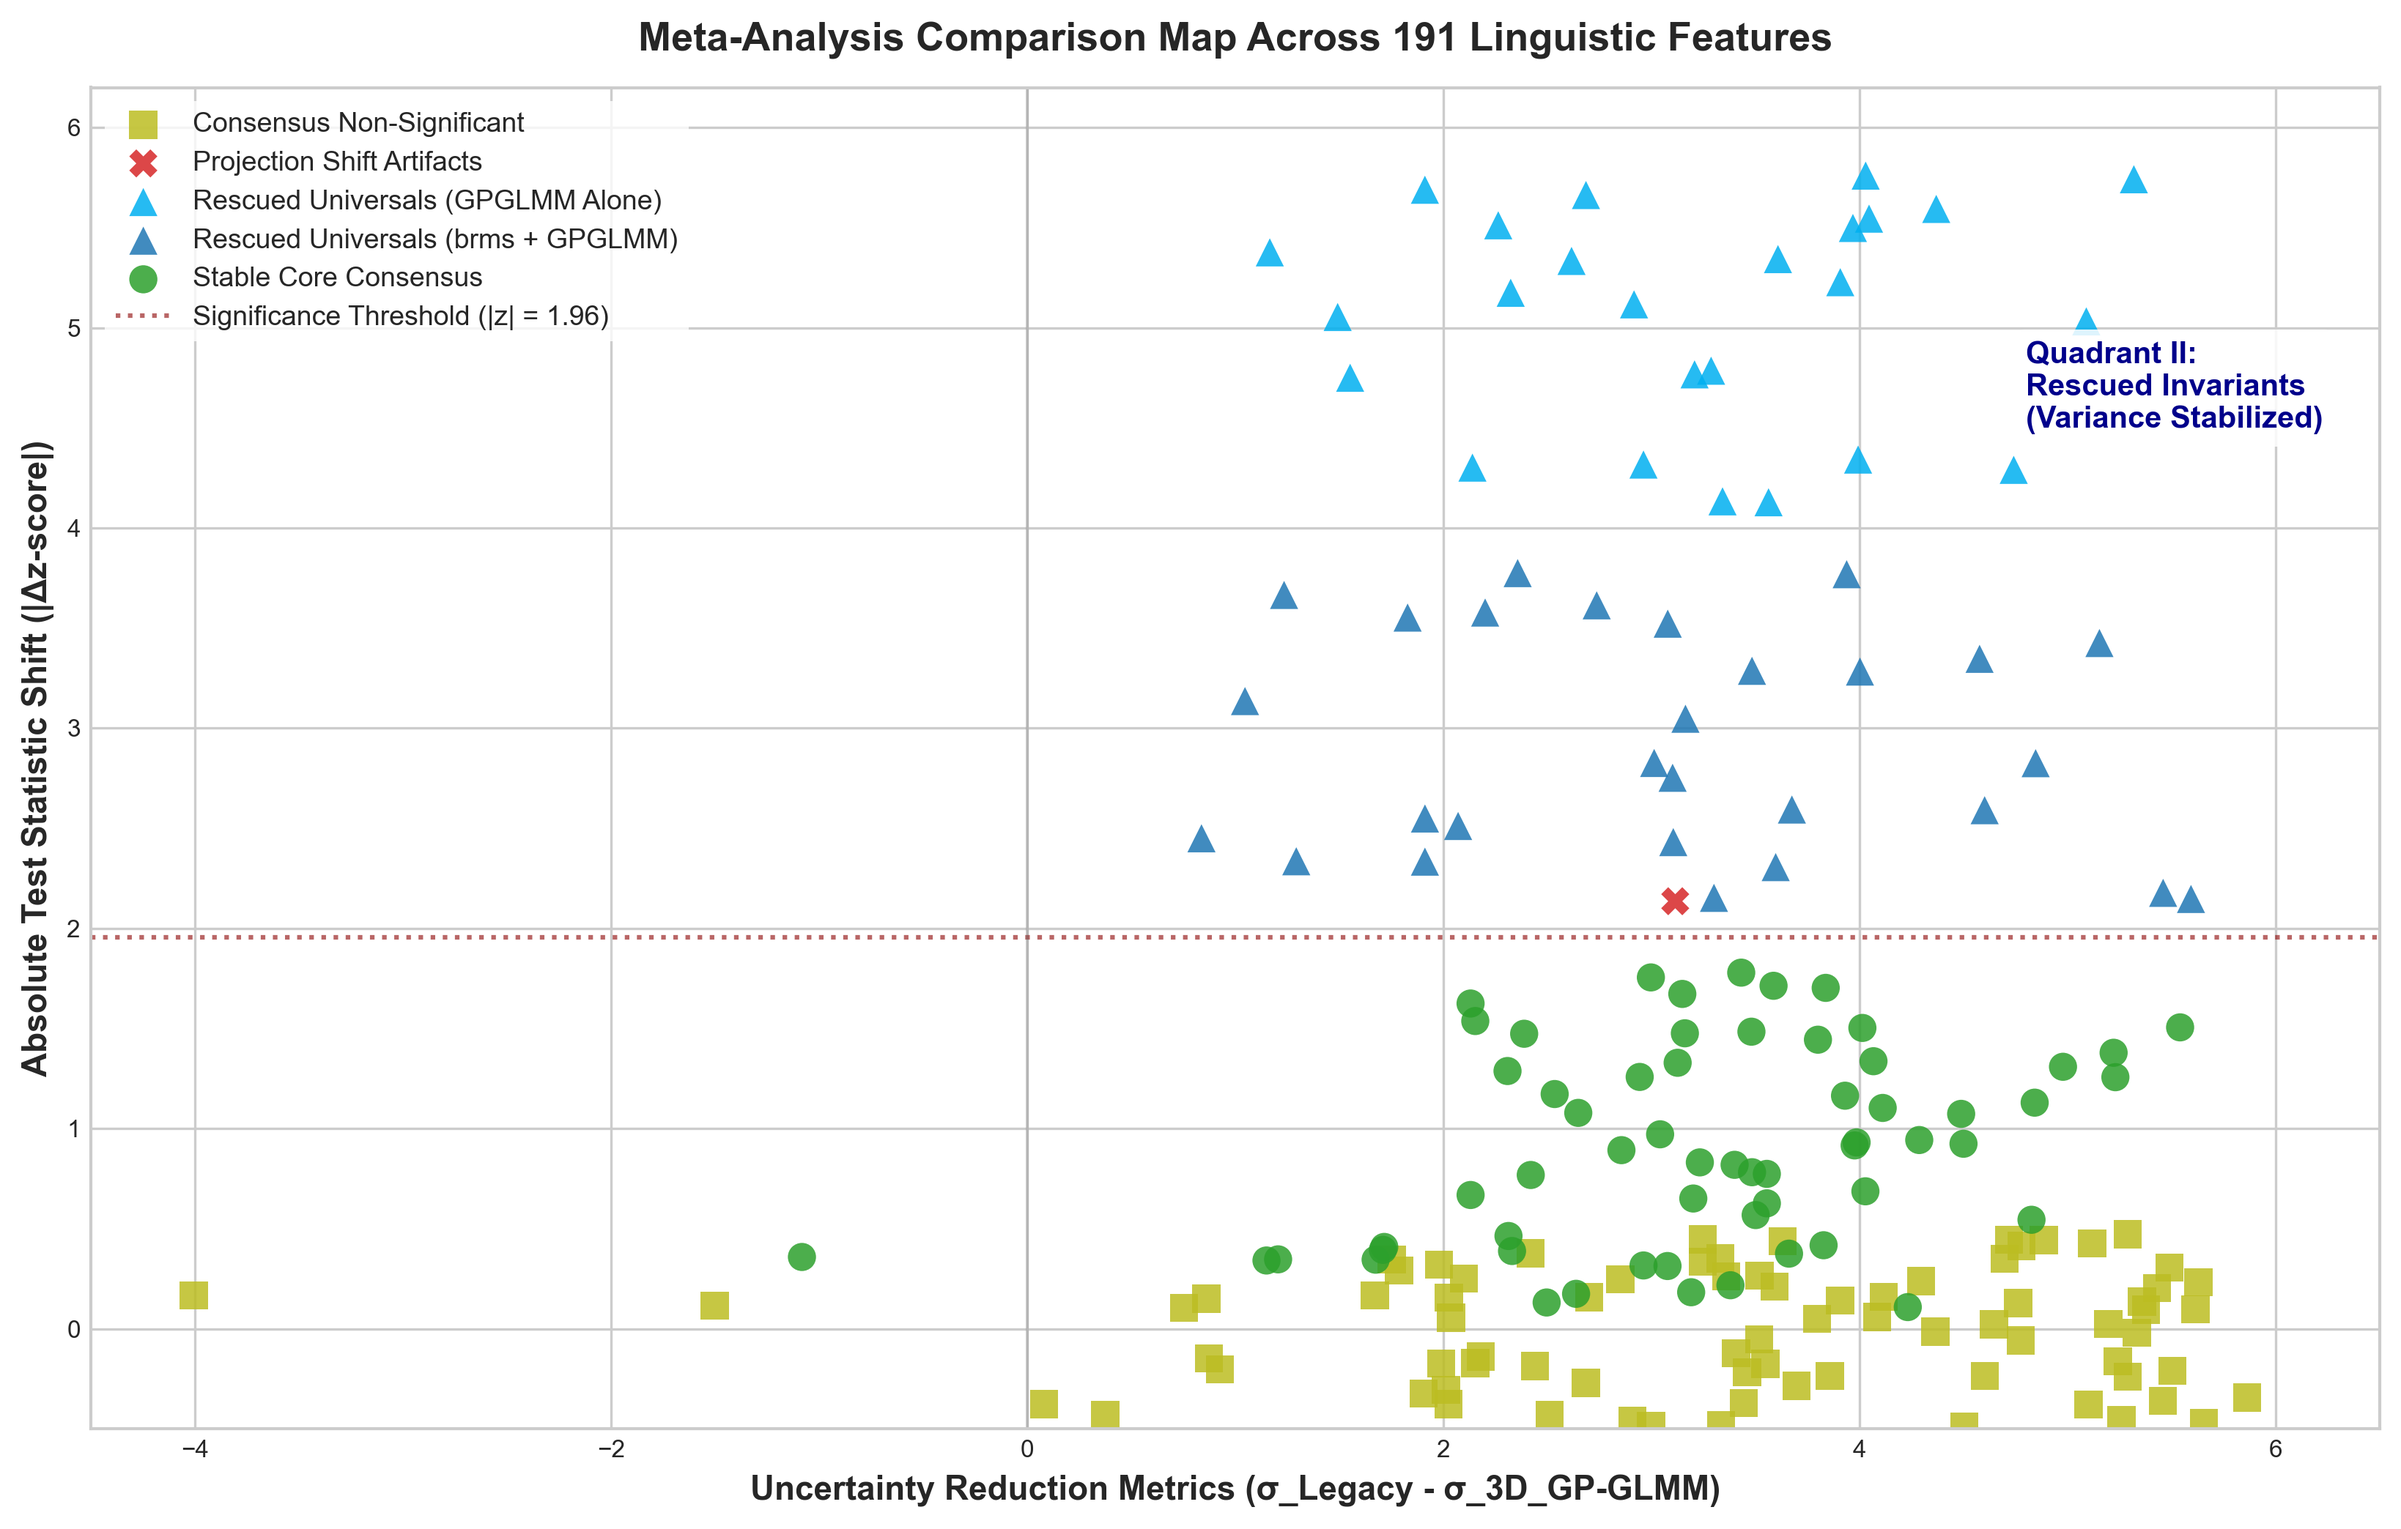
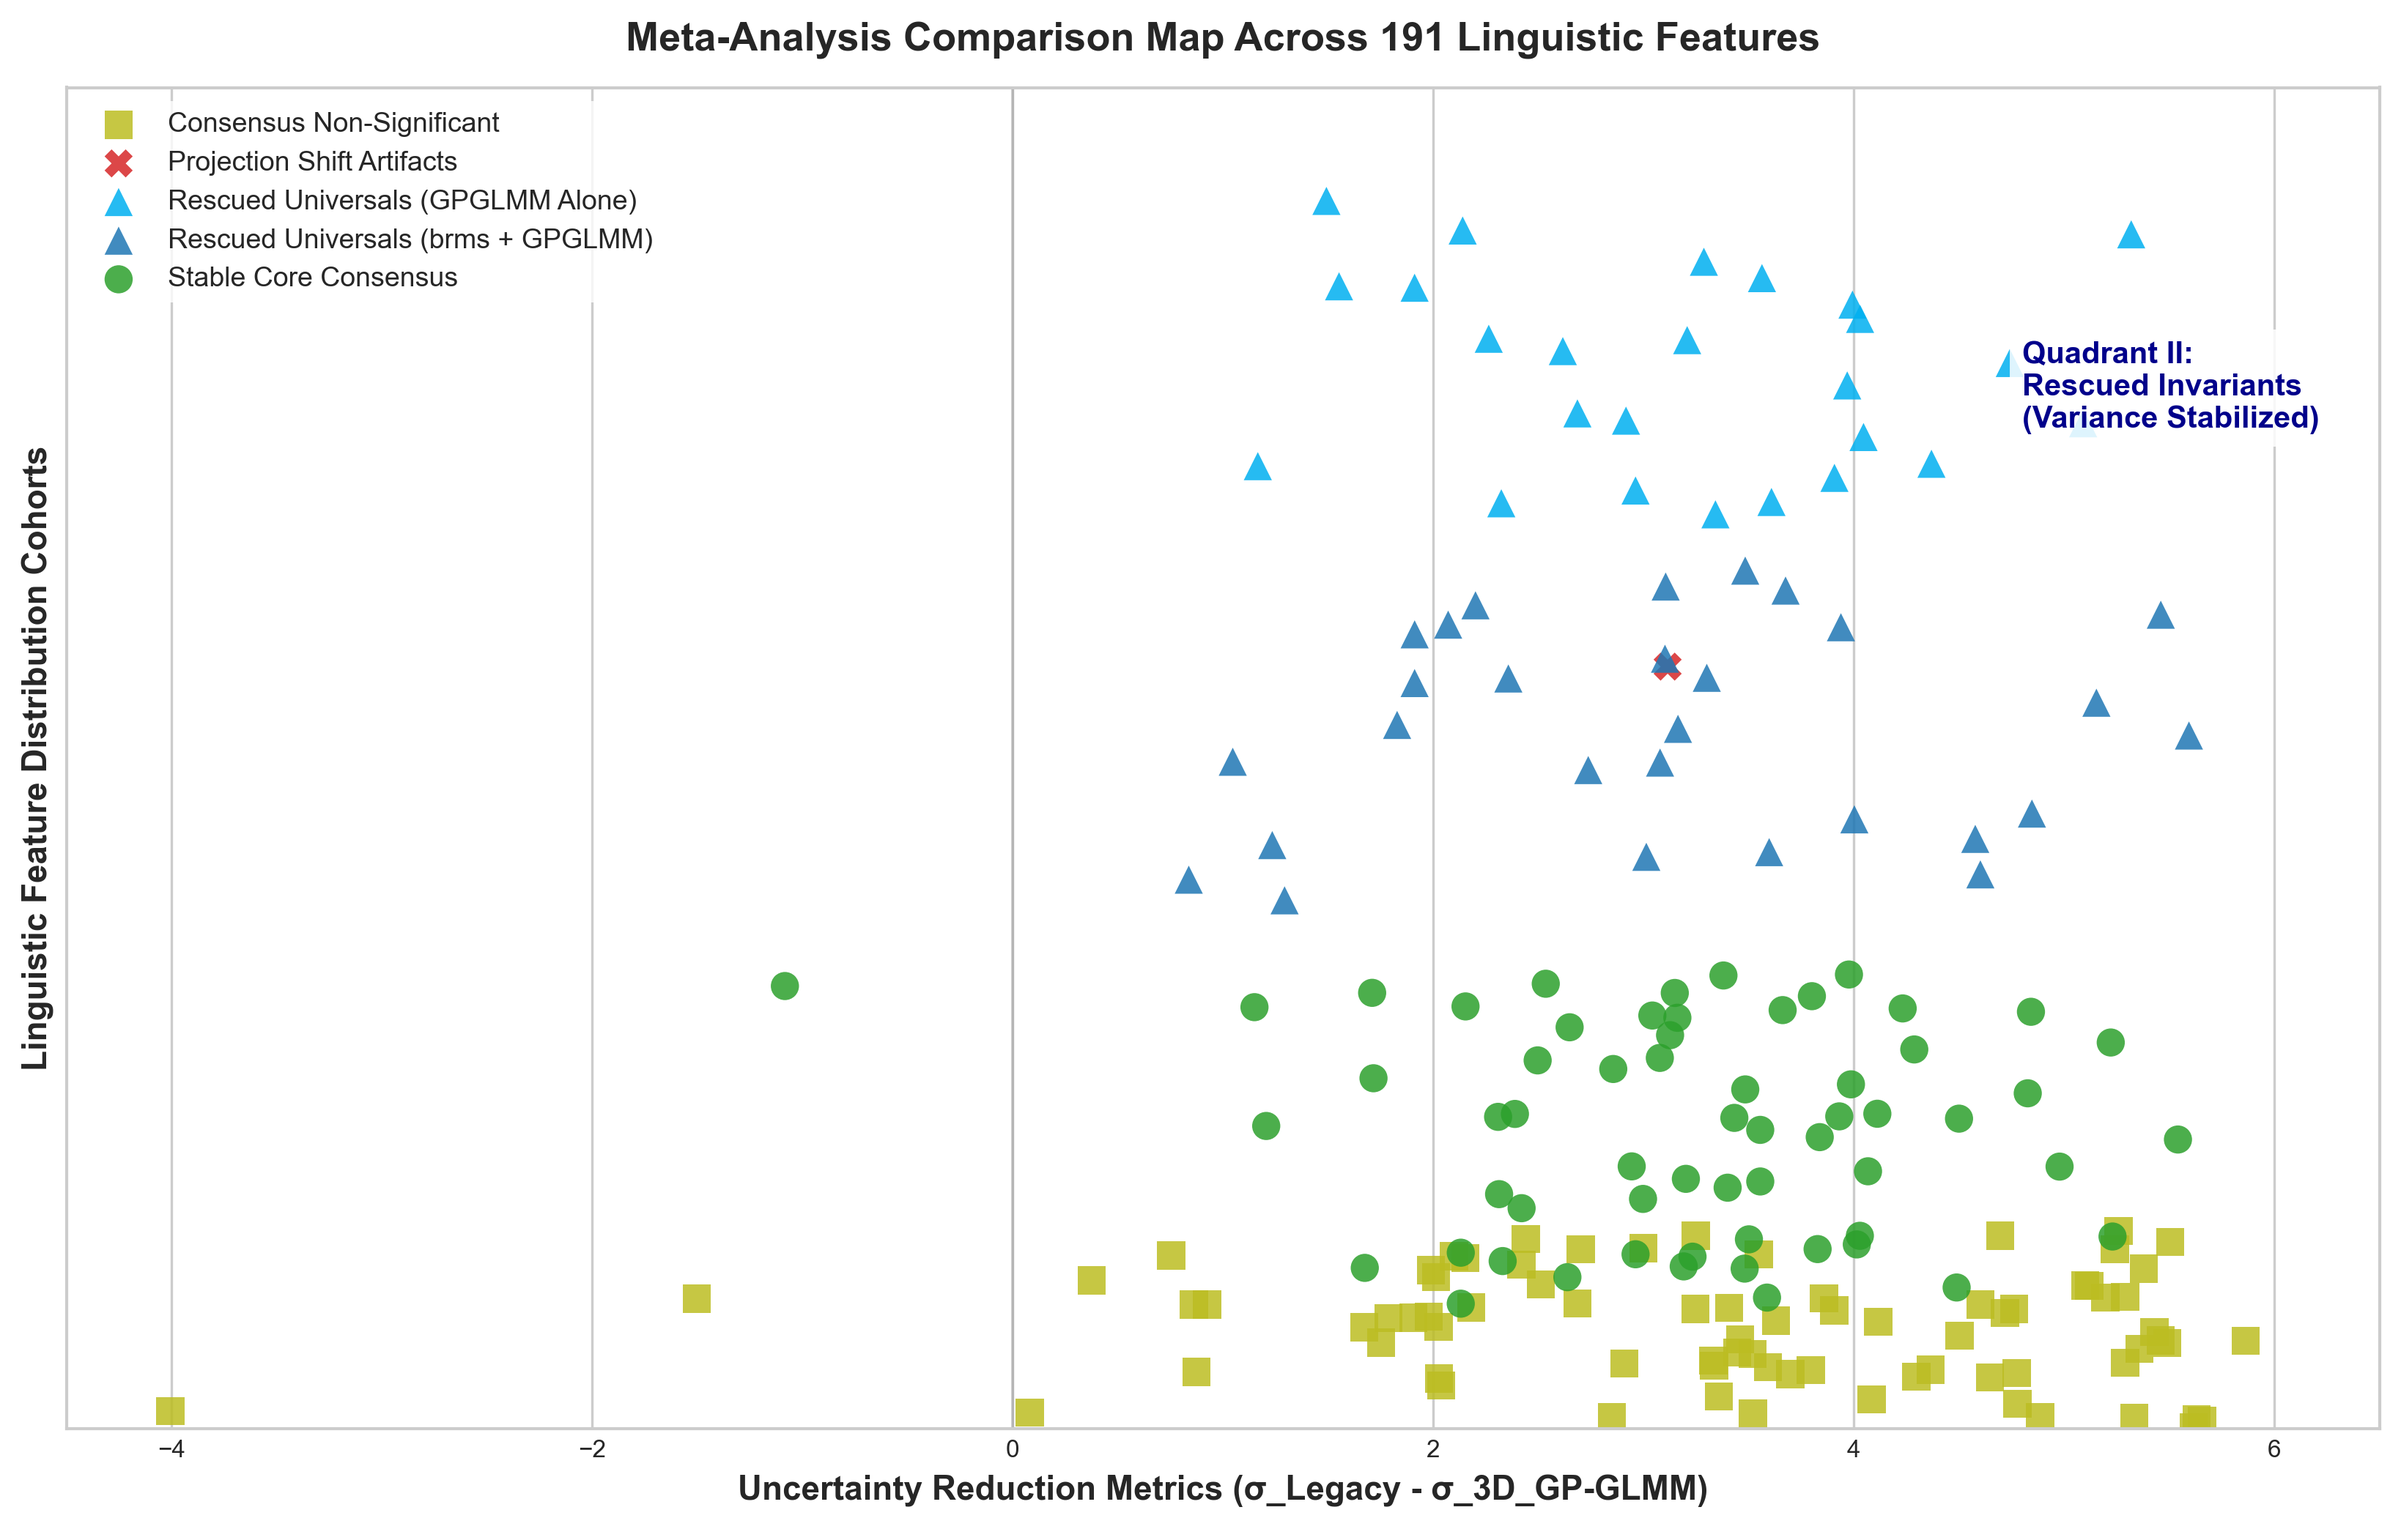
change scatter plot display style

diff --git a/utils/plotting_master.py b/utils/plotting_master.py
@@ -513,12 +513,13 @@ def generate_global_summary_scatter_plot(master_summary_path=None):
                    c=first_row["Color"], marker=first_row["Marker"], s=85, alpha=0.85,
                    edgecolors="none", label=group_name)
 
-    ax.axhline(y=1.956, color="darkred", linestyle=":", alpha=0.6, linewidth=1.5, label="Significance Threshold (|z| = 1.96)")
+    # ax.axhline(y=1.956, color="darkred", linestyle=":", alpha=0.6, linewidth=1.5, label="Significance Threshold (|z| = 1.96)") # used when plotting actual y values
     ax.axvline(x=0, color="gray", linestyle="-", alpha=0.3, linewidth=1.0)
 
     ax.set_title("Meta-Analysis Comparison Map Across 191 Linguistic Features", fontsize=13, fontweight="bold", pad=12)
     ax.set_xlabel("Uncertainty Reduction Metrics (\u03c3_Legacy - \u03c3_3D_GP-GLMM)", fontsize=11, fontweight="bold")
-    ax.set_ylabel("Absolute Test Statistic Shift (|\u0394z-score|)", fontsize=11, fontweight="bold")
+    ax.set_ylabel("Linguistic Feature Distribution Cohorts", fontsize=11, fontweight="bold") # switch to display mode
+    ax.set_yticks([])
 
     ax.set_xlim(-4.5, 6.5)
     ax.set_ylim(-0.5, 6.2)
@@ -539,7 +540,7 @@ def generate_global_summary_scatter_plot(master_summary_path=None):
     plt.savefig(output_img_path, bbox_inches="tight")
     plt.close()
     print(f"Global summary scatter plot saved directly to -> '{output_img_path}'")
-    
+
 if __name__ == "__main__":
     batch_plot_all_completed_features()
     batch_plot_all_global_views()
